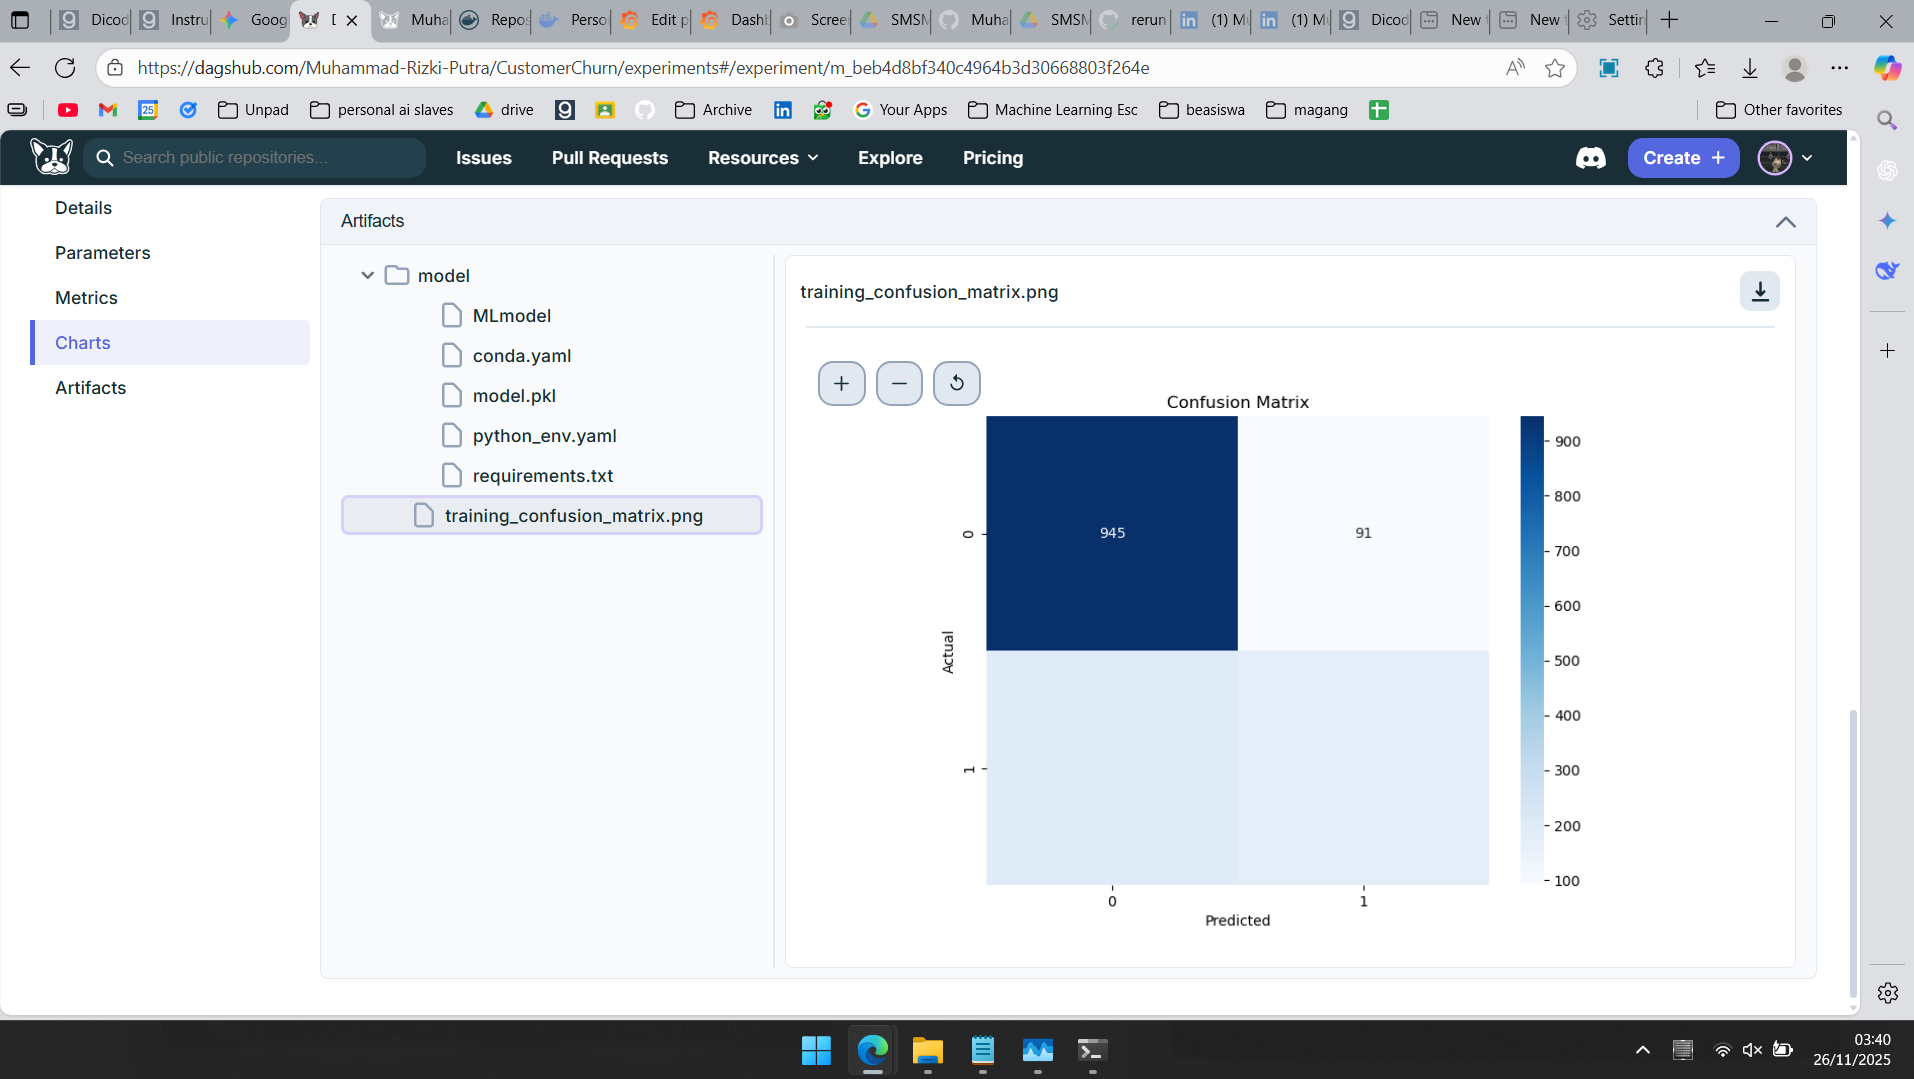
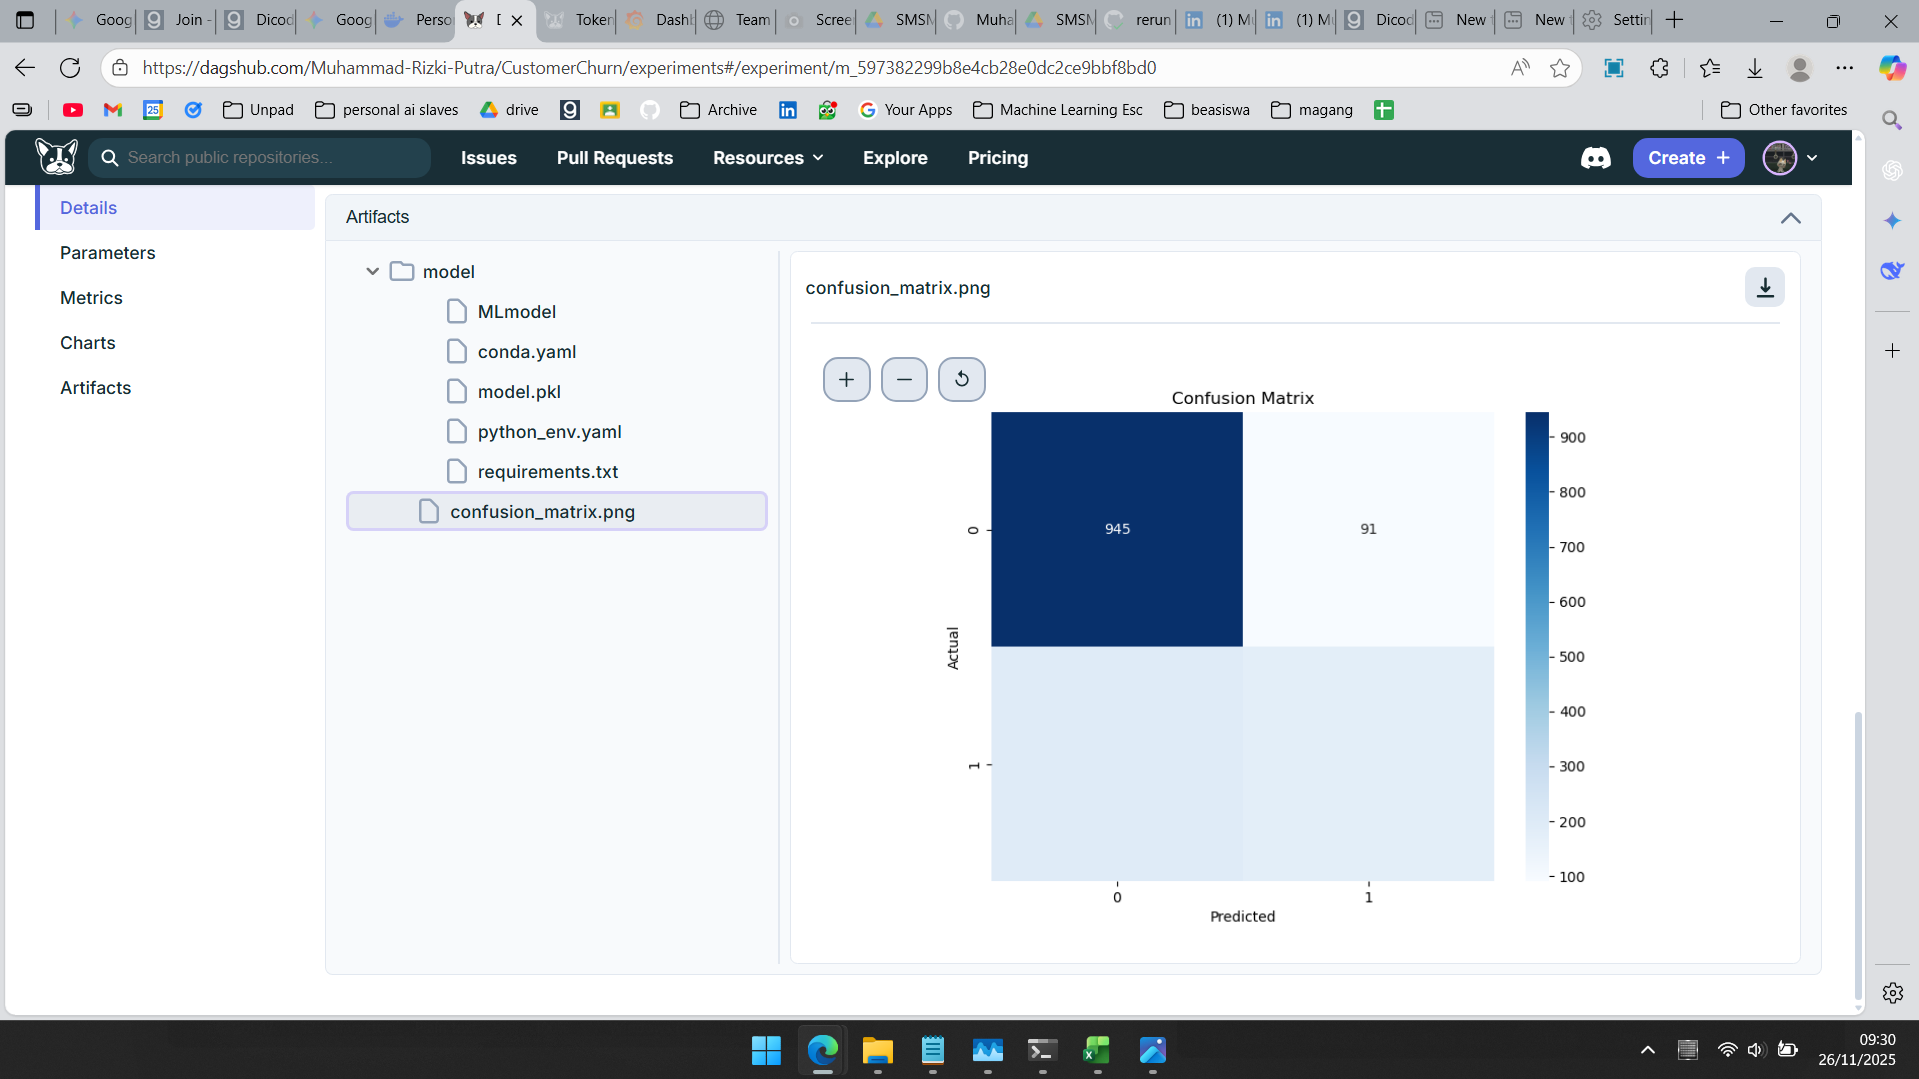
perubahan pada modelling.py

diff --git a/Membangun_model/modelling.py b/Membangun_model/modelling.py
@@ -3,16 +3,17 @@ from sklearn.model_selection import train_test_split
 from sklearn.ensemble import RandomForestClassifier
 from sklearn.metrics import accuracy_score, confusion_matrix
 import matplotlib
-matplotlib.use('Agg')
+matplotlib.use('Agg') # Penting agar tidak error GUI
 import matplotlib.pyplot as plt
 import seaborn as sns
 import mlflow
 import mlflow.sklearn
-import shutil
+import joblib
 import os
 import sys
-import joblib
+import shutil
 
+# --- CONFIG ---
 DAGSHUB_URI = "https://dagshub.com/Muhammad-Rizki-Putra/CustomerChurn.mlflow"
 mlflow.set_tracking_uri(DAGSHUB_URI)
 mlflow.set_experiment("Telco-Churn-Production")
@@ -25,7 +26,6 @@ def load_data():
         file_path = os.path.join(current_dir, '..', 'preprocessing', 'telco_churn_clean.csv')
         
     if not os.path.exists(file_path):
-        print("Dataset tidak ditemukan.")
         sys.exit(1)
         
     return pd.read_csv(file_path)
@@ -41,39 +41,46 @@ def train_production():
     print("Training Random Forest...")
     rf = RandomForestClassifier(n_estimators=100, max_depth=20, random_state=42)
     
-    with mlflow.start_run(run_name="Production_Model_Structure"):
+    mlflow.sklearn.autolog()
+    
+    with mlflow.start_run(run_name="Production_With_Matrix"):
         rf.fit(X_train, y_train)
         
+        # Hitung Prediksi
         y_pred = rf.predict(X_test)
         acc = accuracy_score(y_test, y_pred)
         mlflow.log_metric("accuracy", acc)
-        print(f"Training Selesai. Accuracy: {acc}")
-
+        
+        # --- BAGIAN MEMBUAT CONFUSION MATRIX (MANUAL) ---
+        print("Generating Confusion Matrix...")
         cm = confusion_matrix(y_test, y_pred)
         plt.figure(figsize=(8, 6))
         sns.heatmap(cm, annot=True, fmt='d', cmap='Blues')
         plt.title('Confusion Matrix')
         plt.ylabel('Actual')
         plt.xlabel('Predicted')
-        plt.savefig("training_confusion_matrix.png")
+        
+        # Simpan gambar lokal lalu upload
+        plt.savefig("confusion_matrix.png")
         plt.close()
-        mlflow.log_artifact("training_confusion_matrix.png")
-
-        print("Generating Standard MLflow Model Structure...")
-        if os.path.exists("model_temp"):
-            shutil.rmtree("model_temp")
+        mlflow.log_artifact("confusion_matrix.png")
+        
+        # --- BAGIAN MEMBUAT FOLDER MODEL LENGKAP ---
+        print("Generating Model Folder...")
+        if os.path.exists("model_temp_folder"):
+            shutil.rmtree("model_temp_folder")
             
-        mlflow.sklearn.save_model(rf, "model_temp")
+        mlflow.sklearn.save_model(rf, "model_temp_folder")
+        mlflow.log_artifacts("model_temp_folder", artifact_path="model")
         
-        print("Uploading artifacts to DagsHub...")
-        mlflow.log_artifacts("model_temp", artifact_path="model")
-        
+        # Simpan file lokal untuk Docker
         joblib.dump(rf, "model_churn_rf.pkl")
         
-        print("Success! Struktur folder 'model' lengkap sudah terupload.")
+        print("Selesai. Matrix dan Model Folder berhasil di-upload.")
         
-        if os.path.exists("model_temp"): shutil.rmtree("model_temp")
-        if os.path.exists("training_confusion_matrix.png"): os.remove("training_confusion_matrix.png")
+        # Cleanup
+        if os.path.exists("model_temp_folder"): shutil.rmtree("model_temp_folder")
+        if os.path.exists("confusion_matrix.png"): os.remove("confusion_matrix.png")
 
 if __name__ == "__main__":
     train_production()
